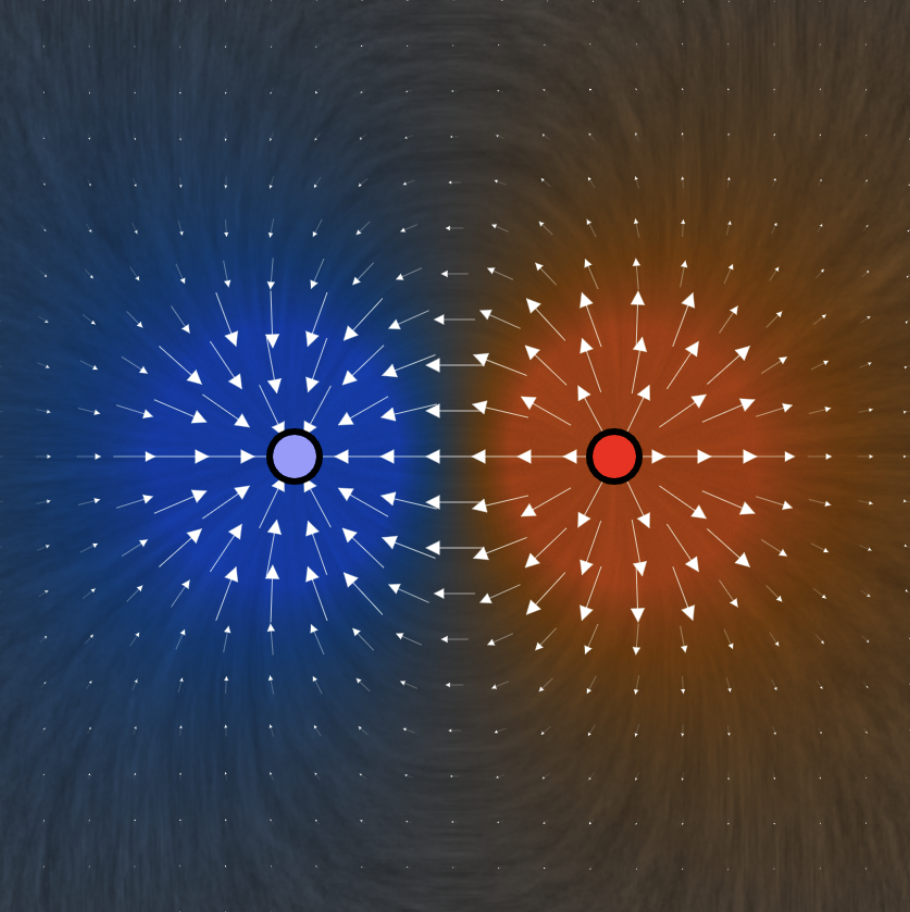
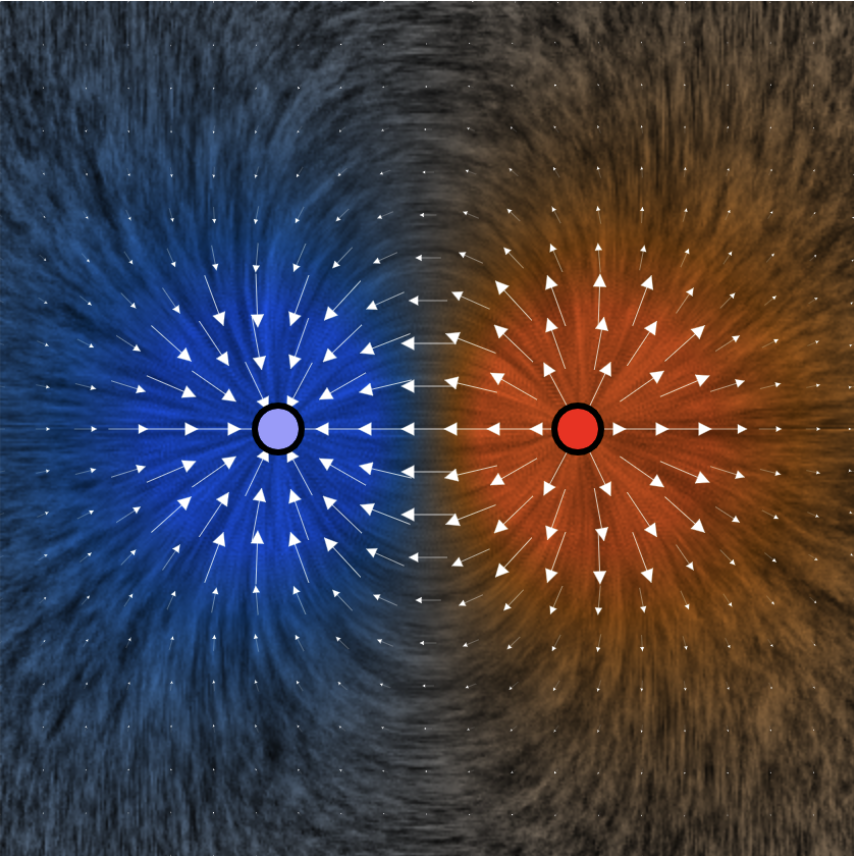
ok

diff --git a/math2001/chapter-38.html b/math2001/chapter-38.html
@@ -24,11 +24,13 @@
 	<link rel="icon" type="image/png" href="images/icon/infinity32.png" sizes="32x32">
 	<link rel="icon" type="image/png" href="images/icon/infinity16.png" sizes="16x16">
 
+	
 	<!--
-		<script type="text/javascript" src="sketches/cindyjs/v0.7.11/Cindy.js"></script>
+	<script type="text/javascript" src="sketches/cindyjs/v0.7.11/Cindy.js"></script>
 	<script type="text/javascript" src="sketches/cindyjs/v0.7.11/CindyGL.js"></script>
 	<script type="text/javascript" src="sketches/cindyjs/symbolic.js"></script>
 	-->
+	
 
 	<!-- Printing and PDF exports -->
 	<script>
@@ -113,7 +115,7 @@
 									<img style="width: 100%; 
 										display: block;
 										margin-left: auto;
-										margin-right: auto;" data-src="images/chapter-38/electric-field.png" />
+										margin-right: auto;" data-src="images/chapter-38/electric-field.jpg" />
 									<!--
 											<div class="fragment"  data-fragment-index="0">
 											<script id="csinit" type="text/x-cindyscript">
@@ -436,10 +438,10 @@
 							<table>
 								<tr>
 									<td class="fragment" data-fragment-index="0">
-										Vol. through net surface after 1 sec.
+										$\text{Vol. through net surface after 1 second}$
 									</td>
 									<td class="fragment" data-fragment-index="1">
-										$\displaystyle = 3\times 3 \times 2 \times 1$
+										$= 3\times 3 \times 2 \times 1$
 										<span class="fragment" data-fragment-index="2">
 											$=18 m^3$
 										</span>
@@ -626,11 +628,11 @@
 						</div>
 
 						<p class="fragment" data-fragment-index="0">
-							flux through one arc $\approx \v(P^*)\cdot \n (P^*)\Delta S$.
+							flux through one arc $\approx \v(P^*)\cdot \n (P^*)~\Delta S$.
 						</p>
 						<p class="fragment" data-fragment-index="1">
 							$\Rightarrow $ total flux through $C$ $\approx \displaystyle \sum_{i}\v(P_i^*)\cdot \n
-							(P_i^*)\Delta S_i$.
+							(P_i^*)~\Delta S_i$.
 						</p>
 
 						<div class="left-txt">
@@ -803,7 +805,7 @@
 							<p class="fragment" data-fragment-index="0">
 								The net outward flux of $\v = v_1~\i + v_2~\j$ across $C$ is given by
 								\[
-								\text{Net outward flux} = \oint_C \v \cdot ~dS,
+								\text{Net outward flux} = \oint_C \v \cdot \n ~dS,
 								\]
 								where $\n$ is a unit vector normal to $C$,
 								directed outward from the region bounded by $C$.
@@ -842,8 +844,6 @@
 					</div>
 				</section>
 			</section>
-
-
 
 			<section>
 
